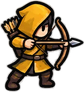
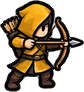
유닛 그림 밝은 테두리 제거(tools/fix_halo.py), 메인 화풍 기준 문서·기준 시트 추가 (베타 1.286)
Claude-Session: https://claude.ai/code/session_01EFTEodMUbbTSUTixRFZg7z

diff --git a/tools/fix_halo.py b/tools/fix_halo.py
@@ -1,0 +1,134 @@
+#!/usr/bin/env python3
+"""흰 배경을 지우고 남은 '밝은 테두리'를 외곽선 색으로 칠해 없앤다.
+
+  python3 tools/fix_halo.py --auto            # 이상치 기준(맨 바깥 링이 외곽선보다 0.3 넘게 밝음)으로 찾아 고친다
+  python3 tools/fix_halo.py units/ally_sword.png units/enemy_spear.png   # assets 기준 상대 경로를 직접 지정
+  --dry-run  고치지 않고 대상만 보여 준다   --no-backup  _old 보관본을 만들지 않는다
+
+문제: 어두운 외곽선 바깥에 밝은 1px(반투명 흰색)와 회색 1px가 남아 있어서, 어두운 바닥 위에서 가는 흰 선으로 보인다.
+방법: 맨 바깥 두 겹(깊이 1~2) 중 밝은 픽셀의 색만, 바로 안쪽 외곽선(깊이 3)의 색으로 바꾼다. 알파(투명도)는 그대로 두므로 모양·크기·발 위치는 변하지 않는다.
+      깊이 3이 없는 얇은 부분(창끝 같은 것)은 건드리지 않는다.
+원본은 `<이름>_old.png`로 보관한다(이미 있으면 덮어쓰지 않는다). 고친 뒤 `python3 tools/make_webp.py`를 다시 돌린다.
+"""
+from __future__ import annotations
+
+import argparse
+import shutil
+import sys
+from pathlib import Path
+
+import numpy as np
+from PIL import Image
+
+ROOT = Path(__file__).resolve().parent.parent / "client" / "public" / "assets"
+ALPHA_MIN = 0.125  # 32/255, 이 이하는 사실상 투명으로 본다
+
+
+def erode(m: np.ndarray) -> np.ndarray:
+    p = np.pad(m, 1, constant_values=False)
+    return p[1:-1, 1:-1] & p[:-2, 1:-1] & p[2:, 1:-1] & p[1:-1, :-2] & p[1:-1, 2:]
+
+
+def depths(opaque: np.ndarray, n: int = 4) -> list[np.ndarray]:
+    """깊이 1(맨 바깥)~n 픽셀 마스크."""
+    out, cur = [], opaque.copy()
+    for _ in range(n):
+        nxt = erode(cur)
+        out.append(cur & ~nxt)
+        cur = nxt
+    return out
+
+
+def lum_of(rgb: np.ndarray) -> np.ndarray:
+    return 0.299 * rgb[..., 0] + 0.587 * rgb[..., 1] + 0.114 * rgb[..., 2]
+
+
+def halo_amount(a: np.ndarray) -> float:
+    op = a[..., 3] > ALPHA_MIN
+    if op.sum() < 40:
+        return 0.0
+    d = depths(op, 4)
+    lum = lum_of(a[..., :3])
+    rings = [float(lum[x].mean()) if x.any() else 1.0 for x in d]
+    return rings[0] - min(rings[1:4])
+
+
+def fix(a: np.ndarray) -> tuple[np.ndarray, int]:
+    """밝은 테두리를 고친 RGBA(0~1)와 바뀐 픽셀 수."""
+    out = a.copy()
+    op = a[..., 3] > ALPHA_MIN
+    d1, d2, d3, _ = depths(op, 4)
+    lum = lum_of(a[..., :3])
+    changed = 0
+
+    def neighbor_color(target: np.ndarray, source: np.ndarray) -> np.ndarray:
+        """target 픽셀마다 8방향 이웃 중 source 픽셀의 색 평균(없으면 NaN)."""
+        h, w = target.shape
+        acc = np.zeros((h, w, 3), dtype=np.float32)
+        cnt = np.zeros((h, w), dtype=np.float32)
+        src = np.pad(source, 1, constant_values=False)
+        col = np.pad(out[..., :3], ((1, 1), (1, 1), (0, 0)))
+        for dy in (-1, 0, 1):
+            for dx in (-1, 0, 1):
+                if dy == 0 and dx == 0:
+                    continue
+                m = src[1 + dy : 1 + dy + h, 1 + dx : 1 + dx + w]
+                acc += col[1 + dy : 1 + dy + h, 1 + dx : 1 + dx + w] * m[..., None]
+                cnt += m
+        res = np.full((h, w, 3), np.nan, dtype=np.float32)
+        ok = target & (cnt > 0)
+        res[ok] = acc[ok] / cnt[ok][..., None]
+        return res
+
+    # 깊이 2를 먼저(깊이 3의 외곽선 색으로), 그다음 깊이 1을 새로 칠한 깊이 2의 색으로
+    for ring, src in ((d2, d3), (d1, d2)):
+        light = ring & (lum > 0.12)
+        col = neighbor_color(light, src & (lum < 0.3))
+        ok = light & ~np.isnan(col[..., 0])
+        out[..., :3][ok] = col[ok]
+        changed += int(ok.sum())
+    return out, changed
+
+
+def main() -> int:
+    ap = argparse.ArgumentParser()
+    ap.add_argument("paths", nargs="*")
+    ap.add_argument("--auto", action="store_true")
+    ap.add_argument("--dry-run", action="store_true")
+    ap.add_argument("--no-backup", action="store_true")
+    ap.add_argument("--threshold", type=float, default=0.3)
+    args = ap.parse_args()
+
+    targets: list[Path] = []
+    if args.auto:
+        for folder in ("units", "hero", "cards", "camp"):
+            for p in sorted((ROOT / folder).rglob("*.png")):
+                if "_old" in p.stem or "_raw" in str(p.parent):
+                    continue
+                a = np.asarray(Image.open(p).convert("RGBA"), dtype=np.float32) / 255.0
+                if halo_amount(a) > args.threshold:
+                    targets.append(p)
+    targets += [ROOT / x for x in args.paths]
+    if not targets:
+        print("고칠 그림이 없습니다")
+        return 0
+    for p in targets:
+        a = np.asarray(Image.open(p).convert("RGBA"), dtype=np.float32) / 255.0
+        before = halo_amount(a)
+        fixed, n = fix(a)
+        after = halo_amount(fixed)
+        print(f"{p.relative_to(ROOT)}: 밝은 테두리 {before:+.2f} → {after:+.2f} (바꾼 픽셀 {n})")
+        if args.dry_run:
+            continue
+        if not args.no_backup:
+            old = p.with_name(p.stem + "_old.png")
+            if not old.exists():
+                shutil.copy2(p, old)
+        Image.fromarray((np.clip(fixed, 0, 1) * 255 + 0.5).astype(np.uint8), "RGBA").save(p)
+    if not args.dry_run:
+        print("끝났습니다. python3 tools/make_webp.py 를 다시 돌려 webp를 갱신하세요.")
+    return 0
+
+
+if __name__ == "__main__":
+    sys.exit(main())

diff --git a/docs/asset-outliers.md b/docs/asset-outliers.md
@@ -4,7 +4,7 @@
 
 | 종류 | 개수 | 채도 중앙값 | 밝기 중앙값 | 대비 중앙값 | 외곽선 중앙값 | 외곽선 두께(px) | 밝은 테두리 | 반투명 |
 |---|---|---|---|---|---|---|---|---|
-| 일러스트 | 152 | 0.42 | 0.25 | 0.43 | -0.20 | 2.0 | 0.00 | 0.07 |
+| 일러스트 | 152 | 0.42 | 0.25 | 0.42 | -0.20 | 2.0 | 0.00 | 0.07 |
 | 이펙트 | 412 | 0.38 | 0.45 | 0.47 | -0.25 | 2.0 | 0.00 | 0.15 |
 | 지형 | 64 | 0.46 | 0.36 | 0.53 | -0.31 | 2.0 | 0.80 | 0.07 |
 | UI | 7 | 0.31 | 0.29 | 0.42 | -0.21 | 3.0 | 0.04 | 0.02 |
@@ -55,26 +55,16 @@
 - `fx/boss9_drain_mote_0.png` (51x27, 닿은 길이 26%)
 - … 외 7개
 
-## 2. 맨 바깥에 밝은 테두리가 남은 일러스트 (10개)
+## 2. 맨 바깥에 밝은 테두리가 남은 일러스트 (0개)
 
 일러스트의 맨 바깥 1px 링이 그 안쪽 외곽선보다 0.3 넘게 밝다. 흰 배경을 지운 흔적이며 어두운 바닥 위에서 가는 흰 선으로 보인다. 이펙트는 밝은 것이 정상이라 뺐다.
 
-- `units/ally_sword.png` 밝은 테두리 +0.67
-- `units/ally_archer.png` 밝은 테두리 +0.63
-- `units/ally_spear.png` 밝은 테두리 +0.63
-- `units/enemy_sword.png` 밝은 테두리 +0.61
-- `units/enemy_spear.png` 밝은 테두리 +0.61
-- `units/ally_mace.png` 밝은 테두리 +0.60
-- `units/ally_cavalry.png` 밝은 테두리 +0.57
-- `units/enemy_mace.png` 밝은 테두리 +0.55
-- `units/enemy_archer.png` 밝은 테두리 +0.55
-- `units/enemy_cavalry.png` 밝은 테두리 +0.55
 
 ## 3. 같은 종류 안에서 화풍이 어긋난 그림
 
 같은 종류의 묶음별 중앙값에서 크게 벗어난 그림. 이펙트는 모양·밝기가 원래 제각각이고 색을 입혀 쓰는 흰색 계열(`skill_*`)이 많아 기준을 1.6배로 높이고 두 가지 이상이 벗어난 것만 적었다(`--z`로 조정). 같은 세트가 같은 이유로 3장 이상 튀면 한 줄로 합쳤다.
 
-### 일러스트 (152개 중 15개가 튐)
+### 일러스트 (152개 중 29개가 튐)
 
 - `units/boss5_whirlpose_3.png`: 외곽선이 두꺼움, 외곽선이 약함/없음
 - `units/boss5_whirlpose_1.png`: 외곽선이 두꺼움, 외곽선이 약함/없음
@@ -84,13 +74,23 @@
 - `cards/art_mage.png`: 외곽선이 두꺼움
 - `cards/art_spear.png`: 외곽선이 두꺼움
 - `cards/art_sword.png`: 외곽선이 두꺼움
-- `units/boss6_blink.png`: 밝음
+- `units/skel_archer.png`: 대비 셈, 외곽선이 진함
 - `units/boss8_mad.png`: 외곽선이 두꺼움
 - `units/boss8_mad_b.png`: 외곽선이 두꺼움
 - `hero/hero_mace_raised.png`: 외곽선이 두꺼움
-- `hero/hero_mage.png`: 과하게 짙은 색
-- `units/boss7_gallop.png`: 외곽선이 진함
-- `units/skel_archer.png`: 외곽선이 진함
+- `units/boss6_blink.png`: 밝음
+- `units/ally_archer.png`: 외곽선이 두꺼움
+- `units/ally_cavalry.png`: 외곽선이 두꺼움
+- `units/ally_mace.png`: 외곽선이 두꺼움
+- `units/ally_spear.png`: 외곽선이 두꺼움
+- `units/ally_sword.png`: 외곽선이 두꺼움
+- `units/enemy_archer.png`: 외곽선이 두꺼움
+- `units/enemy_cavalry.png`: 외곽선이 두꺼움
+- `units/enemy_mace.png`: 외곽선이 두꺼움
+- `units/enemy_spear.png`: 외곽선이 두꺼움
+- `units/enemy_sword.png`: 외곽선이 두꺼움
+- `hero/hero_f_mace_raised.png`: 외곽선이 두꺼움
+- … 외 5줄
 
 ### 이펙트 (412개 중 17개가 튐)
 
@@ -185,7 +185,7 @@
 - `units/cav_thrust_0.png`: 과하게 짙은 색, 밝음
 - `units/cav_thrust_1.png`: 과하게 짙은 색
 - `units/cav_thrust_7.png`: 과하게 짙은 색
-- `units/enemy_mage.png`: 외곽선이 두꺼움
+- `units/enemy_sword.png`: 밝음, 대비 셈
 - `units/skel_archer.png`: 밝음, 대비 셈
 - `units/supply_hurt.png`: 외곽선이 약함/없음
 - `units/supply_run_2.png`: 외곽선이 진함, 밝음
@@ -199,17 +199,17 @@
 | 묶음 | 개수 | 채도 | 밝기 | 대비 | 외곽선 | 종류 중앙값과의 거리 |
 |---|---|---|---|---|---|---|
 | `cards/art` | 6 | 0.51 | 0.33 | 0.63 | -0.11 | 8.2 |
-| `units/boss8` | 5 | 0.31 | 0.17 | 0.29 | -0.10 | 8.1 |
-| `units/ally` | 6 | 0.45 | 0.30 | 0.65 | -0.29 | 6.6 |
+| `units/boss8` | 5 | 0.31 | 0.17 | 0.29 | -0.10 | 7.9 |
 | `units/supply` | 7 | 0.44 | 0.31 | 0.47 | -0.32 | 5.6 |
-| `units/boss5` | 9 | 0.31 | 0.20 | 0.36 | -0.13 | 5.5 |
-| `units/boss2` | 4 | 0.37 | 0.16 | 0.30 | -0.18 | 5.0 |
-| `units/boss10` | 18 | 0.29 | 0.19 | 0.33 | -0.20 | 4.3 |
+| `units/boss5` | 9 | 0.31 | 0.20 | 0.36 | -0.13 | 5.4 |
+| `units/ally` | 6 | 0.47 | 0.26 | 0.59 | -0.29 | 5.2 |
+| `units/boss2` | 4 | 0.37 | 0.16 | 0.30 | -0.18 | 4.9 |
+| `units/boss10` | 18 | 0.29 | 0.19 | 0.33 | -0.20 | 4.2 |
 | `units/skel` | 6 | 0.35 | 0.23 | 0.49 | -0.25 | 3.5 |
 | `hero/hero` | 16 | 0.39 | 0.24 | 0.52 | -0.25 | 3.0 |
-| `units/enemy` | 8 | 0.34 | 0.23 | 0.47 | -0.19 | 2.2 |
+| `units/enemy` | 8 | 0.35 | 0.18 | 0.41 | -0.19 | 3.0 |
 | `units/cav` | 48 | 0.44 | 0.25 | 0.42 | -0.20 | 0.4 |
-| (종류 중앙값) | 152 | 0.42 | 0.25 | 0.43 | -0.20 | - |
+| (종류 중앙값) | 152 | 0.42 | 0.25 | 0.42 | -0.20 | - |
 
 ### 이펙트
 

diff --git a/docs/asset-prompts.md b/docs/asset-prompts.md
@@ -70,11 +70,28 @@ python3 tools/slice_sheet.py /tmp/arrows.png client/public/assets/fx --names arr
 
 ## 0. 먼저 읽어 주세요 (그림체와 시트 형식)
 
-**1. 그림체는 이미 만든 유닛 시트로 고정합니다.** 새로 만들 때마다 **유닛 시트 이미지를 스타일 기준(reference / style reference)으로 같이 첨부**하세요. 그러면 주인공·캠프·아이콘이 같은 화풍으로 나옵니다. 지금 화풍은 다음과 같습니다.
+**1. 메인 그림체(확정): 아군 5병종 유닛 + 주인공.** 새 그림은 모두 이 화풍에 맞춥니다. 요청할 때마다 **기준 이미지 `docs/style-reference/main_style_sheet.png`(아군 5병종 + 검방병 + 주인공 2종)를 스타일 기준(reference)으로 같이 첨부**하세요. 이 방식을 빼면 사실적으로 나옵니다(방벽 시안이 그랬습니다).
 
-- **옆모습**(위에서 내려다본 시점이 아님), 치비 비율, 굵은 검정 윤곽선, 약간의 질감이 있는 채색
-- 아군은 밝고 선명하게, 적은 어둡고 탁하게(붉은 포인트)
-- 오른쪽을 보고 서 있는 자세 (게임에서 왼쪽으로 갈 때 좌우 반전합니다)
+![메인 화풍 기준 시트](style-reference/main_style_sheet.png)
+
+**왜 이 화풍인가**: 캐주얼 2D 게임이라서 작게 줄여도 알아보는 큰 머리의 귀여운 비율과 굵은 외곽선이 맞습니다.
+
+**화풍 규칙(기준 그림 10장을 실제로 잰 값)**
+
+| 항목 | 규칙 | 잰 값 |
+|---|---|---|
+| 시점 | 옆모습(위에서 내려다본 시점 아님), 오른쪽을 보고 선 자세 (왼쪽으로 갈 때 코드가 좌우 반전) | - |
+| 비율 | 치비: 머리가 몸의 약 1/3, 손발은 단순하게 | 높이 88~114px(기병·주인공이 큼) |
+| 외곽선 | **거의 검정**(`#050505` 부근) 굵은 선, 바깥쪽에 밝은 테두리를 남기지 않기 | 두께 약 2~3px, 색 RGB 1~14 |
+| 색칠 | 면을 2~3톤으로 나눈 평평한 색칠(만화풍). 그라데이션·무지개빛 광택·사실적 질감 금지 | - |
+| 채도·밝기 | 팀 색이 한눈에 보이게 선명하되 너무 짙지 않게 | 채도 0.30~0.62, 평균 밝기 0.22~0.31, 대비 0.51~0.76 |
+| 아군·적 | 아군은 밝고 선명하게, 적은 어둡고 탁하게(붉은 포인트) | - |
+| 투명 배경 | 흰 배경을 지울 때 **외곽선 바깥에 밝은 테두리가 남지 않게**. 남으면 `python3 tools/fix_halo.py`로 고친다 | 맨 바깥 링 밝기 차 0 |
+
+**보스도 이 화풍으로 맞춥니다(재제작 대상).** 지금 보스 그림은 사실적인 비율·어두운 색조·약한 대비라서 유닛과 다른 게임처럼 보입니다. 위압감은 **크기(일반 유닛의 2~2.5배), 소품(큰 무기·망토·왕관), 색(어둡지만 채도는 유지), 자세**로 내고, **그림체 자체는 위 규칙 그대로**(치비 비율, 같은 외곽선, 평평한 색칠)로 합니다.
+- 재제작 목록(포즈 / 이펙트 수): 보스1 2/12, 보스2 4/8, 보스3 3/18, 보스4 3/25, 보스5 9/31, 보스6 3/24, 보스7 2/10, 보스8 5/24, 보스9 3/39, 보스10 18/69. 이펙트는 유닛과 별개로 **외곽선 없이 색과 밝기로** 만들어도 되지만, 채도·밝기 범위는 유닛 규칙을 따릅니다.
+- 순서 제안: 보스 본체 포즈부터(눈에 가장 띄는 것) → 자주 쓰는 이펙트. 한 보스씩 만들어 `python3 tools/asset_outliers.py`로 기존 그림과 비교해 확인합니다.
+- 새로 만든 그림은 넣기 전에 `python3 tools/asset_outliers.py`로 튀는지 보고, 밝은 테두리가 남았으면 `tools/fix_halo.py`로 고칩니다. 기존 그림은 `_old`로 보관합니다(삭제 금지).
 
 **2. 한 장에 여러 개를 뽑는 "시트" 형식으로 요청하세요.** `tools/slice_sheet.py`가 시트를 한 장씩 자릅니다. 잘리려면 이 규칙을 지켜야 합니다.
 
@@ -87,8 +104,10 @@ python3 tools/slice_sheet.py /tmp/arrows.png client/public/assets/fx --names arr
 시트 요청 머리말(아래 시트 프롬프트 앞에 공통으로 붙임):
 
 ```
-Reference: match the art style of the attached unit sheet exactly (side view,
-chibi proportions, thick dark outline, painterly flat colors with subtle texture).
+Reference: match the art style of the attached main-style sheet exactly (side view,
+chibi proportions with a big head, thick near-black outline about 2-3px with no light
+fringe outside it, flat cel-shaded colors in 2-3 tones, saturated but not neon, no
+gradients, no realistic texture, no glossy highlights).
 Output a sprite sheet on a fully transparent background, items arranged in a
 clean grid with generous empty space between them, nothing touching or overlapping,
 each item large and fully visible, a small caption with the file name under each item.
